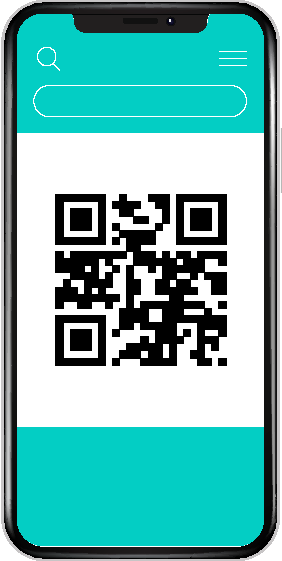
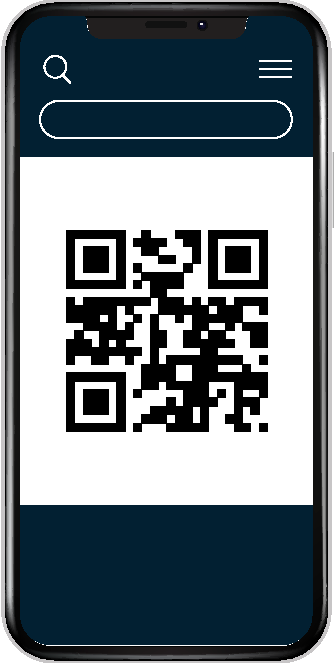
att 04/03 10h09

diff --git a/payapp/css/style.css b/payapp/css/style.css
@@ -24,32 +24,88 @@
 }
 
 .width{
-    max-width: 1175px;
+    max-width: 1000px;
+}
+header{
+    background-color: var(--fundoCor1);
 }
 .titulo{
-    background-color: var(--fundoCor1);
     display: block;
     padding: 25px 45px;
-}
-.menu{
-    display: inline-block;
-    float: right;
-    padding: 8px 0px;
-}
-.menu a{
-    padding-left: 35px;
-    font-weight: bold;
-    text-decoration: none;
-    color: var(--fontCor1);
-}
-.menu a:hover{
-    box-shadow: 1px solid black;
-    color: var(--fontCor1);
 }
 .logo{
     display: inline-block;
 }
 .logo img{
     width: 140px;
-    height: 30px;
+    height: 25px;
+}
+.menu{
+    display: inline-block;
+    float: right;
+    padding: 4px 0px; /*Centralizar altura do menu*/
+}
+.menu a{
+    padding: 10px 25px;
+    font-weight: bold;
+    text-decoration: none;
+    color: var(--fontCor1);
+}
+.menu a:hover{
+    background-color: #162535;
+    border-radius: 20px;
+    color: var(--fontCor1);
+}
+main .div01{
+    height: 90vh;
+    background-image: url("../imagens/redShape1.png");
+    background-repeat: no-repeat;
+    background-position-y: center;
+    background-position-x: 73%;
+    background-size: 600px;
+}
+main .celular{
+    position: absolute;
+    left: 64%;
+    top: 25%;
+    z-index: 4;
+}
+main .celular img{
+    width: 245px;
+    height: 485px;
+}
+main .box{
+    position: absolute;
+    background-color: white;
+    box-shadow: -2px 2px 20px rgba(0, 0, 0, 0.288);
+    border-radius: 20px;
+    padding: 40px 30px;
+    width: 256px;
+    left: -90%;
+    top: 49%;
+    z-index: 5;
+}
+main .textP{
+    position: absolute;
+    width: 400px;
+    left: 20%;
+    top: 25%;
+    z-index: 6;
+}
+.textP h1{
+    font-size: 4em;
+    margin: 20px 0px;
+}
+.textP p{
+    font-size: 1.4em;
+}
+.dowload input{
+    background-color: var(--fundoCor1);
+    font-size: 1em;
+    font-weight: bold;
+    color: white;
+    border: none;
+    padding: 10px 20px;
+    margin-top: 40px;
+    border-radius: 20px;
 }

diff --git a/payapp/index.html b/payapp/index.html
@@ -11,22 +11,42 @@
 <body>
     <!--CABEÇALHO-->
     <header>
-        <div class="titulo">
-            <div class="logo">
-                <img src="imagens/logo.png" alt="logo payapp">
-            </div>
-            <div class="menu">
-                <a href="#">App</a>
-                <a href="#">Store</a>
-                <a href="#">About Us</a>
-                <a href="#">Contact</a>
-                <a href="#">Dowload</a>
+        <div class="width">
+            <div class="titulo">
+                <div class="logo">
+                    <img src="imagens/logo.png" alt="logo payapp">
+                </div>
+                <div class="menu">
+                    <a href="#">App</a>
+                    <a href="#">Store</a>
+                    <a href="#">About Us</a>
+                    <a href="#">Contact</a>
+                    <a href="#">Dowload</a>
+                </div>
             </div>
         </div>
     </header>
+
     <!--CORPO-->
     <main>
-
+        <div class="div01">
+            <div class="width">
+                <div class="textP">
+                    <h1>Discover the new way to pay</h1>
+                    <p>Lorem ipsum dolor sit amet, conse ctetur adipisicing elit, sed do eiusmod tempor incididunt ut</p>
+                    <div class="dowload">
+                        <input type="button" value="Dowload Now">
+                    </div>
+                </div>
+            </div>
+            <div class="celular">
+                <img src="imagens/celular.png" alt="celular com qr code">
+                <div class="box">
+                    <h2>Lorem ipsum dolor sit</h2>
+                    <p>Lorem ipsum dolor sit amet, conse ctetur adipisicing elit, sed do eiusmod tempor incididunt ut labore et dolore</p>
+                </div>
+            </div>
+        </div>
     </main>
     <!--RODAPÉ-->
     <footer>
